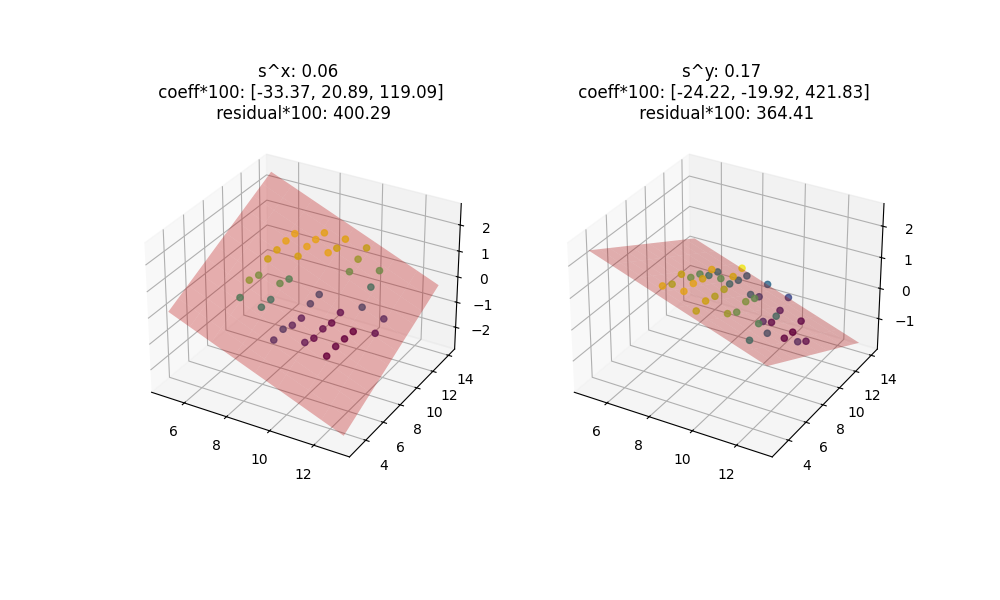
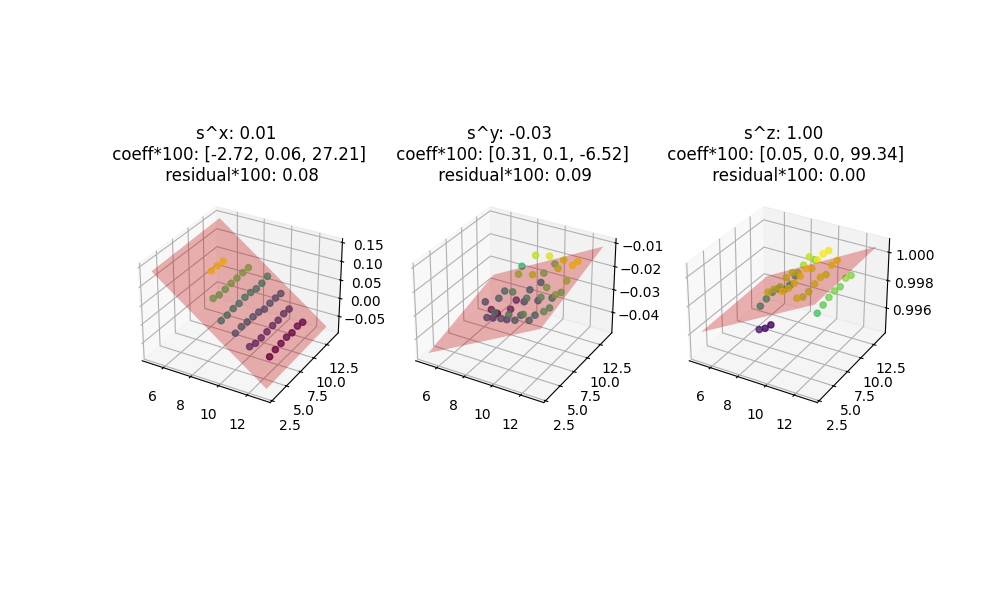
debug: K calculation and optimization

diff --git a/core.py b/core.py
@@ -82,28 +82,35 @@ def fit_K(N_field, F_mask, save_img=False):
     fit_input = np.column_stack((X.reshape(-1), Y.reshape(-1), np.ones_like(X.reshape(-1))))
     coeffx, residualx, _, _  = np.linalg.lstsq(fit_input, Nx.reshape(-1), rcond=None)
     coeffy, residualy, _, _  = np.linalg.lstsq(fit_input, Ny.reshape(-1), rcond=None)
-    sx, sy = np.mean(Nx), np.mean(Ny)
+    coeffz, residualz, _, _  = np.linalg.lstsq(fit_input, Nz.reshape(-1), rcond=None)
+    sx, sy, sz = np.mean(Nx), np.mean(Ny), np.mean(Nz)
     
     if save_img == True:
         fig = plt.figure(figsize=(10, 6))
         surfx, surfy = np.meshgrid(range(X.min() - 2, X.max() + 2), range(Y.min() - 2, Y.max() + 2))
         
         surfz = coeffx[0] * surfx + coeffx[1] * surfy + coeffx[2]
-        ax = fig.add_subplot(121, projection='3d')
+        ax = fig.add_subplot(131, projection='3d')
         ax.scatter(X, Y, Nx, c=Nx, cmap='viridis', alpha=0.8)
         ax.plot_surface(surfx, surfy, surfz, alpha=0.3, color='r')
         ax.set_title(f's^x: {sx:.2f} \n coeff*100: {[round(c*100, 2) for c in coeffx]} \n residual*100: {residualx[0]*100:.2f}', fontsize=12)
         
         surfz = coeffy[0] * surfx + coeffy[1] * surfy + coeffy[2]
-        ax = fig.add_subplot(122, projection='3d')
+        ax = fig.add_subplot(132, projection='3d')
         ax.scatter(X, Y, Ny, c=Ny, cmap='viridis', alpha=0.8)
         ax.plot_surface(surfx, surfy, surfz, alpha=0.3, color='r')
         ax.set_title(f's^y: {sy:.2f} \n coeff*100: {[round(c*100, 2) for c in coeffy]} \n residual*100: {residualy[0]*100:.2f}', fontsize=12)
+
+        surfz = coeffz[0] * surfx + coeffz[1] * surfy + coeffz[2]
+        ax = fig.add_subplot(133, projection='3d')
+        ax.scatter(X, Y, Nz, c=Nz, cmap='viridis', alpha=0.8)
+        ax.plot_surface(surfx, surfy, surfz, alpha=0.3, color='r')
+        ax.set_title(f's^z: {sz:.2f} \n coeff*100: {[round(c*100, 2) for c in coeffz]} \n residual*100: {residualz[0]*100:.2f}', fontsize=12)
         
         plt.savefig('fit_image.png')
         plt.close()
 
-    return np.array([[coeffx[0], coeffx[1], 0, 1], [coeffy[0], coeffy[1], -1, 0]]), np.array([sx, sy])
+    return np.array([[coeffx[0], coeffx[1], 0, -1], [coeffy[0], coeffy[1], 1, 0], [coeffz[0], coeffz[1], 0, 0]]), np.array([sx, sy, sz])
 
 def calculate_Jacobi(d):
     """
@@ -141,7 +148,7 @@ def optimize_motion(K_1, K_2, J_1, J_2, s_1, s_2, w):
     """
     KJ_1, KJ_2 = K_1 @ J_1, K_2 @ J_2
     A = KJ_1.T @ KJ_1 + KJ_2.T @ KJ_2 + w.T @ w
-    b = KJ_1.T @ s_1 + KJ_2.T @ s_2
+    b = -KJ_1.T @ s_1 - KJ_2.T @ s_2
     delta_u = np.linalg.solve(A, b)
 
     return delta_u

diff --git a/test2.py b/test2.py
@@ -12,7 +12,7 @@ def test_cylin_and_rect():
     To test the tangential vector field, use T_field to calculate the K matrix.
     """
     Ks, ss = [], []
-    for i in range(10):
+    for i in range(0,10):
         # Load the data from the .npy files
         P_field = np.load(f'./temp_data/single_finger/pivoting/P_field_{i*10}mm.npy')
         F_field = np.load(f'./temp_data/single_finger/pivoting/F_field_{i*10}mm.npy')
@@ -23,7 +23,13 @@ def test_cylin_and_rect():
         T_field = core.calculate_tangential(N_field, F_field)
         K1, s1 = core.fit_K(N_field, F_mask, save_img=False)
         K2, s2 = core.fit_K(N_field, F_mask, save_img=False)
-        # K2[0, 1], K2[1, 0], s2[1] = -K2[0, 1], -K2[1, 0], -s2[1]  # use this row for cylinder
+        # # for rectangle
+        # s1, s2 = np.array([s1[0], s1[1], s1[2] - 1]), np.array([s2[0], s2[1], s2[2] - 1])
+        # # for cylinder
+        # K2[0, 1], K2[1, 0], s1, s2 = -K2[0, 1], -K2[1, 0], np.array([s1[0], s1[1], s1[2] - 1]), np.array([s2[0], -s2[1], s2[2] - 1])
+        # for pivoting
+        K1, K2 = K1[:2, :], K2[:2, :]
+        K2[0, 1], K2[1, 0], s1, s2 = -K2[0, 1], -K2[1, 0], np.array([s1[0] - 1, s1[1]]), np.array([s2[0] - 1, -s2[1]])
 
         J_1, J_2 = core.calculate_Jacobi(d=20)
         w = core.calculate_weight(d=20)
@@ -31,8 +37,8 @@ def test_cylin_and_rect():
         Ks.append(delta_u)
         ss.append(s1)
 
-    plt.plot(ss)
-    # plt.legend(['δy', 'δz', 'δθy', 'δθz'])
+    plt.plot(Ks)
+    plt.legend(['δy', 'δz', 'δθy', 'δθz'])
     plt.show()
 
 def test_pivot():
